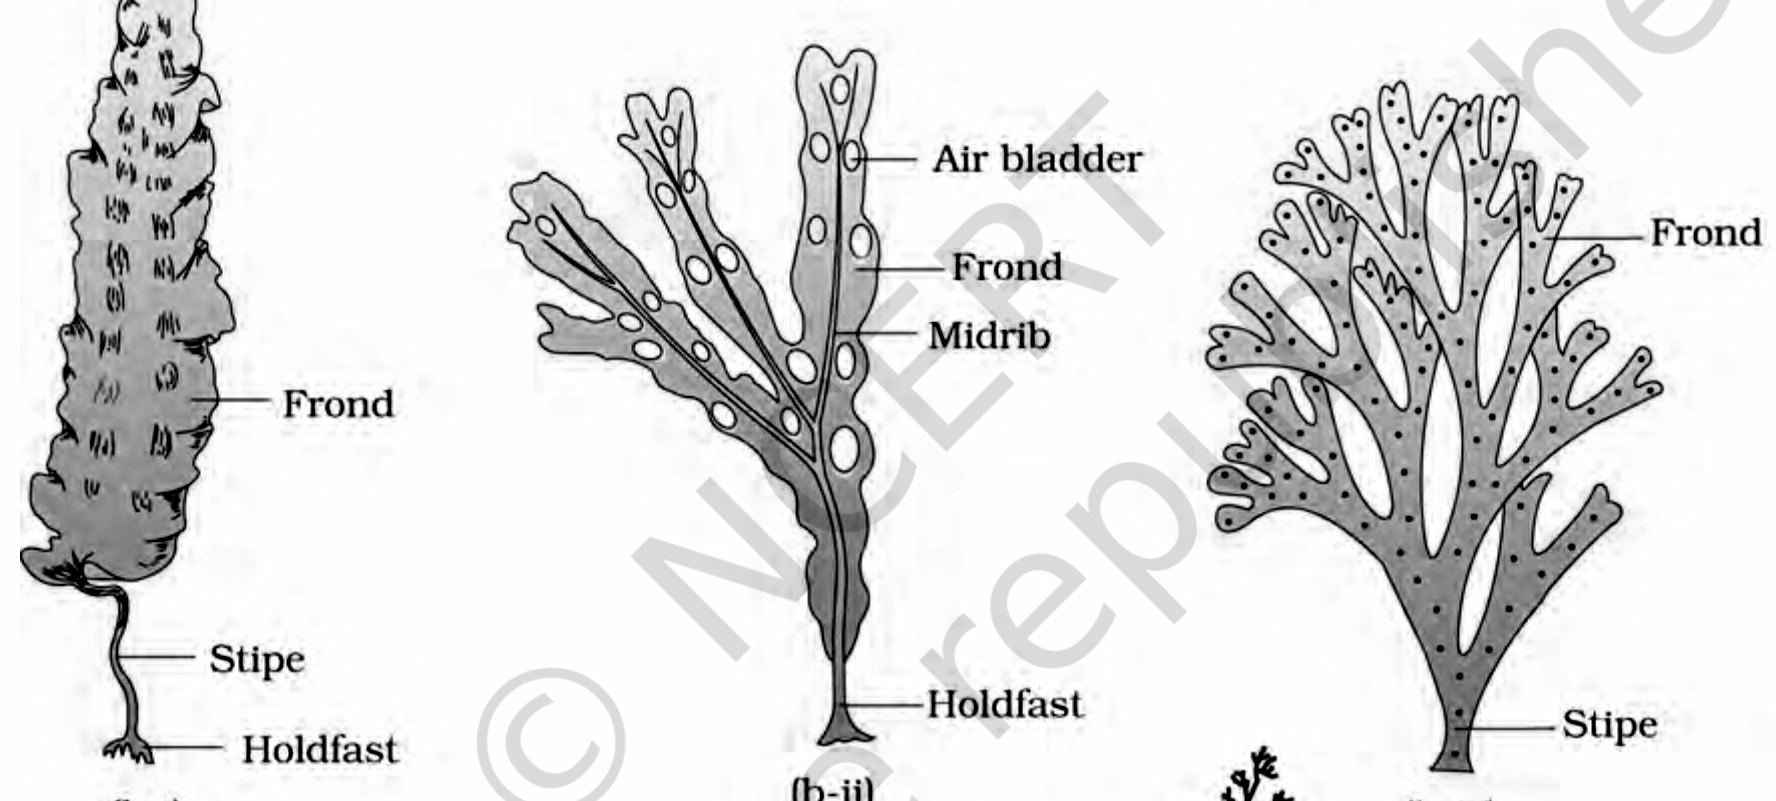
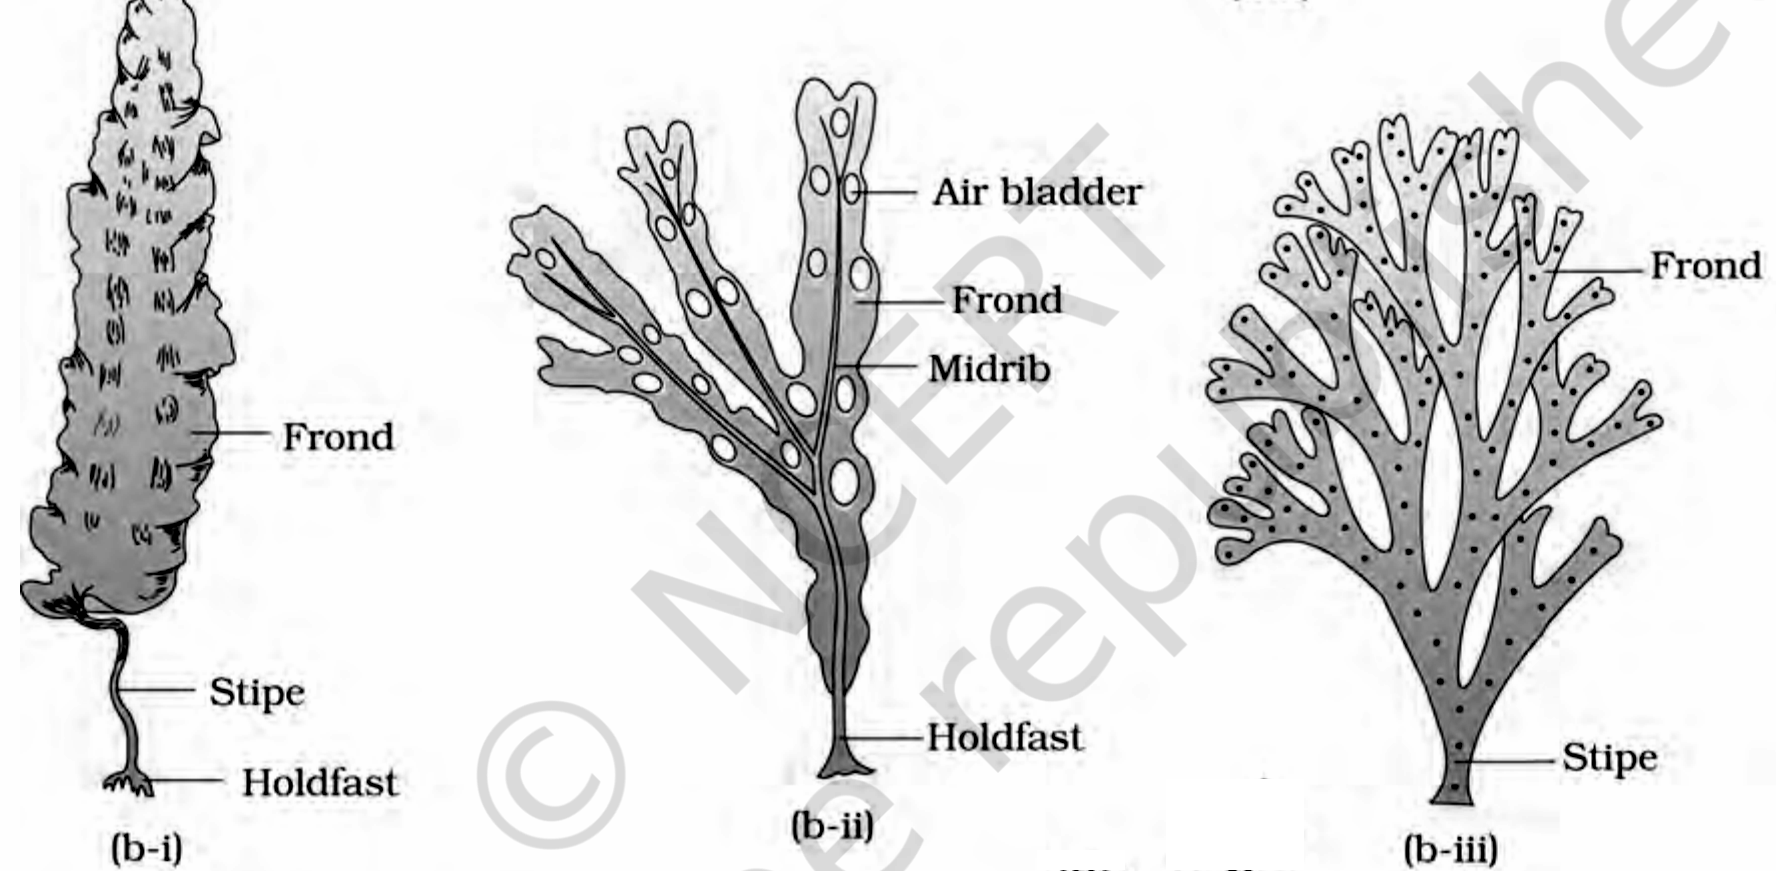
feat: refine figure extraction for Plant Kingdom chapter with improved collision handling

diff --git a/notes/class 11/Ch3_PlantKingdom/extract_figures.py b/notes/class 11/Ch3_PlantKingdom/extract_figures.py
@@ -40,22 +40,31 @@ DPI = 300
 # boundary below was measured from a thresholded ink-profile/bbox scan of that
 # raster at 200 dpi, then confirmed against a coordinate-gridded 150 dpi render.
 #
-# Measured extents (PDF points, page coords):
+# Measured extents (PDF points, page coords) -- re-measured at 400 dpi with a
+# threshold<150 ink scan (rejects the faint NCERT watermark):
 #   (a-i)  artwork  x  95-235  y 112-245   + "(a-i)"  label below it
-#   (a-ii) artwork  x 330-390  y 112-266   + "(a-ii)" label x 353-390 y 270-287
-#   row (b) artwork            y 296-479.5, full x 69-486
-#     (b-i)   x  69-159   (b-ii)  x 186-337   (b-iii) x 353-486
-#   row (c) artwork x  91-443  y 487.8-671.4
-#     (c-i)   x 104-234   (c-ii)  x 295-443
+#   (a-ii) artwork  x 330-390  y 112-266   + "(a-ii)" label x 354.2-385.2 y ..281.8
+#   row (b)  y 274-491, full x 69-486
+#     (b-i)   x  69-159   frond tip starts y=274.7 (x 92.0-112.3) | label y ..484.2
+#     (b-ii)  x 186-337   artwork from y=300.8    | label y ..484.2
+#     (b-iii) x 353-486   artwork from y=309.2    | label x 401.2-453.6 y 468-490
+#                         "Stipe" label x 415-461.3 y 450-473.9
+#   row (c) artwork x  91-443, (c-ii) top ink y=469.0
+#     (c-i)   x 104-234  (rises into y491+ at x 313.3-344.1)
+#     (c-ii)  x 295-443  (intrudes into row (b) at x 345.4-374.1, y 469+)
 #
-# The single genuine collision: row (a)'s "(a-ii)" part label sits at
-# x 353-390 / y 270-287, i.e. BELOW the full-width whitespace band at y=270-275
-# and therefore inside any crop that starts at y=274. (b-iii) Dictyota's own
-# artwork does not begin until y=309.6 and (b-i)/(b-ii) not until y=296, so
-# starting row (b) at y=290 clears the "(a-ii)" label completely without
-# touching a single pixel of row (b) -- no scrub rect is needed at all.
-# Right edge 490 keeps (b-iii)'s "Frond" leader + label (ends x=486.2) intact.
-# Row (c) is cleanly separated: nothing of row (b) reaches below y=479.5.
+# TWO genuine collisions, both handled:
+#   1. Rows (a)/(b) have NO horizontal gutter. "(a-ii)" ends y=281.8 at x 354-385
+#      while (b-i)'s frond tip starts y=282 at x 92-111 -- they are separated
+#      horizontally, not vertically. Top edge y=282 therefore takes all of (b-i)
+#      and none of "(a-ii)". (An earlier y=290 clipped the frond tip; a still
+#      earlier y=274 dragged "(a-ii)" in.)
+#   2. (c-ii) Polysiphonia is tall enough to reach up into row (b)'s y-band, but
+#      it does so at x 345.4-374.1 -- in the gutter between (b-ii) and (b-iii),
+#      NOT under (b-iii)'s labels. x376-400 is zero-ink across y455-500, so one
+#      scrub of x 344-377 / y 469-491 removes it cleanly.
+# Right edge 490 keeps (b-iii)'s "Frond" leader + label (ends x=485.9) intact.
+# Row (c)'s own crop starts at y=484 and is unaffected by either collision.
 FIGURES = [
     # Figure 3.1 Algae -- one crop per NCERT caption sub-part, because the body text
     # itself cites "(Figure 3.1a)", "(Figure 3.1b)" and "(Figure 3.1c)" separately at
@@ -63,25 +72,60 @@ FIGURES = [
     # Row (a): measured ink x 93.5-385.1, y 112.6-289.4 (the left bound is the
     # "Daughter colony"/"Parent colony" leader text, not the Volvox artwork, and the
     # lower bound is the "(a-i)"/"(a-ii)" part labels). Padded to clear both.
-    ("fig_3_1a", 3, (88.0, 106.0, 392.0, 293.0), []),
-    # Row (b): starts at y=290 -- below row (a)'s "(a-ii)" label (ends y=287) and
-    # above row (b)'s own topmost ink (y=296), so the neighbouring label is excluded
-    # by the crop itself rather than painted out (an earlier y=274 top dragged the
-    # "(a-ii)" label in). Ends at y=491, because the "(b-i)"/"(b-ii)"/"(b-iii)" part
-    # labels themselves run to y=489 -- an earlier y=478/482 cut sliced them in half.
-    # Right edge 490 keeps (b-iii)'s "Frond" leader + label (ends x=486.2) intact;
-    # an earlier 470 edge clipped it.
-    # The one scrub: (c-ii) Polysiphonia's topmost fronds reach up to y=468 in the
-    # x 385-465 strip (it is a tall figure in the right-hand column), which is inside
-    # row (b)'s y-band. (b-iii)'s own ink in that strip is its "Stipe" label, which
-    # ends at y=466, and its artwork column ends at x=460 above y=466 -- so scrubbing
-    # x 383-468 / y 469-491 removes only the (c-ii) intrusion. Verified against a
-    # 400 dpi gridded render of the y 462-512 boundary strip.
+    # One scrub: (b-i)'s Laminaria frond tip rises to y=274.7 (x 92.0-112.3), inside
+    # row (a)'s y-band, so it lands in the bottom-left corner of this crop. The
+    # y255-273 band is entirely clear and x112-344 is clear through y283, so (a-i)'s
+    # own artwork/label is nowhere near that corner; scrubbing x 88-114 / y 274-293
+    # removes only the row-(b) intruder.
+    ("fig_3_1a", 3, (88.0, 106.0, 392.0, 293.0), [(88.0, 274.0, 114.0, 293.0)]),
+    # Row (b): top edge y=274. There is NO clean horizontal gutter between rows (a)
+    # and (b) -- a 400 dpi 1-pt row scan of x88-200 / y255-293 shows (b-i)'s Laminaria
+    # frond tip beginning at y=274.7 (x 92.0-112.3) and running unbroken downward,
+    # while row (a)'s "(a-ii)" label occupies x 354.2-385.2 down to y=281.8. In the
+    # y274-283 band those are the ONLY two ink bodies (x112-344 is zero-ink), so the
+    # two rows are separated HORIZONTALLY, not vertically. y=274 therefore takes the
+    # whole frond tip; the "(a-ii)" tail it also admits is removed by the third scrub
+    # below. An earlier y=290 top edge sliced ~16 pt off the frond tip, and an
+    # intermediate y=282 fix still lost its top ~8 pt.
+    # Bottom edge y=491: measured part-label extents are (b-i)/(b-ii) y..484.2 and
+    # (b-iii) y 468.0-490.0, so y=491 clears all three (an earlier y=478/482 cut
+    # sliced them). Nothing of row (b) exists below y=491.
+    # Right edge 490 keeps (b-iii)'s "Frond" leader + label (ends x=485.9) intact;
+    # an earlier 470 edge clipped it. x470-500 holds only that leader (y342.5-348.8).
+    # Row (b) needs TWO scrubs, one per row-(c) intruder that breaks into its box.
+    # Scrub 1 -- (c-ii) Polysiphonia's top-right intrusion, RE-MEASURED:
+    # a 1-pt row scan of x344-378 / y462-496 puts the intruder's first ink at
+    # y=469.0 and its horizontal span at x 345.4-374.1, i.e. it sits in the gap
+    # BETWEEN (b-ii) and (b-iii), well left of (b-iii)'s labels. x376-400 is a
+    # zero-ink gutter over the whole y455-500 band, and (b-iii)'s own ink in this
+    # y-range is its "Stipe" label (x 415-461.3, y 450-473.9) plus the "(b-iii)"
+    # part label (x 401.2-453.6, y 468-490). Scrubbing x 344-377 / y 469-491 therefore
+    # removes the intrusion and nothing else.
+    # NB: the previous scrub rect (383, 469, 468, 491) was wrong on BOTH axes -- it
+    # painted out a clear gutter (x383-400) plus (b-iii)'s "Stipe" and "(b-iii)"
+    # labels, while leaving the real intruder at x344-376 fully intact.
     (
         "fig_3_1b",
         3,
-        (64.0, 290.0, 490.0, 491.0),
-        [(383.0, 469.0, 468.0, 491.0)],
+        (64.0, 274.0, 490.0, 491.0),
+        [
+            (344.0, 469.0, 377.0, 491.0),
+            # Third scrub -- the cost of the y=274 top edge: row (a)'s "(a-ii)" part
+            # label tail, measured at x 359.5-378.0 / y 274.4-281.7. Row (b)'s own
+            # topmost ink in this x-range is (b-iii)'s artwork, which does not begin
+            # until y=309.2, and x112-344 is zero-ink through y283, so scrubbing
+            # x 350-390 / y 274-284 removes the label tail and nothing of row (b).
+            (350.0, 274.0, 390.0, 284.0),
+            # Second, much smaller intrusion: (c-i) Porphyra's topmost frond tip
+            # breaks the y=491 bottom edge. Measured at 600 dpi over x305-345 /
+            # y483-491, its true bbox is x 318.80-329.36 / y 489.12-490.92 -- i.e.
+            # a ~10.5 x 1.8 pt sliver, and everything above y=489.1 in that strip
+            # is clear. Scrub x313-334 / y486-491 covers it with margin on all four
+            # sides (a tighter x317-329 rect leaves 3 stray px at x~329.1-329.4).
+            # Row (b)'s nearest own content is the "(b-ii)" part label, which ends
+            # at x=273.2 / y=484.2, so this scrub touches nothing that belongs.
+            (313.0, 486.0, 334.0, 491.0),
+        ],
     ),
     # Row (c): (c-i) Porphyra x=104-234 (incl. its "Frond" label), (c-ii)
     # Polysiphonia x=295-443 (incl. "Main axis"/"Branches"). An earlier crop started
